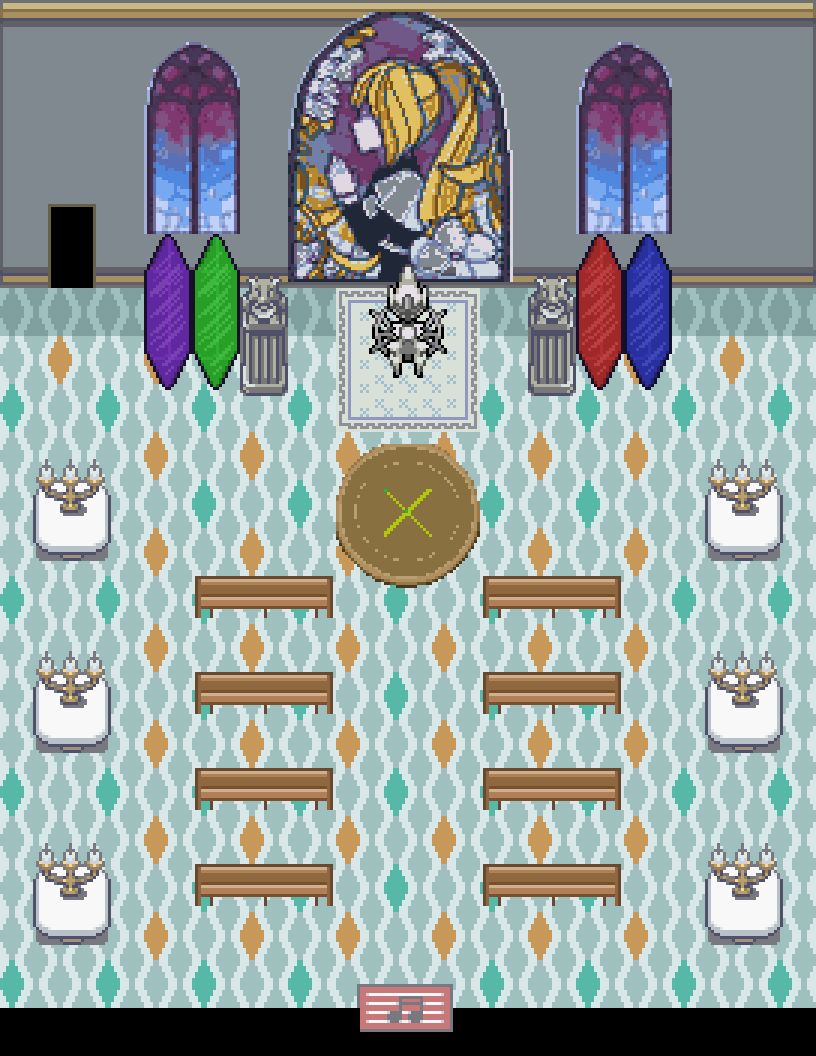
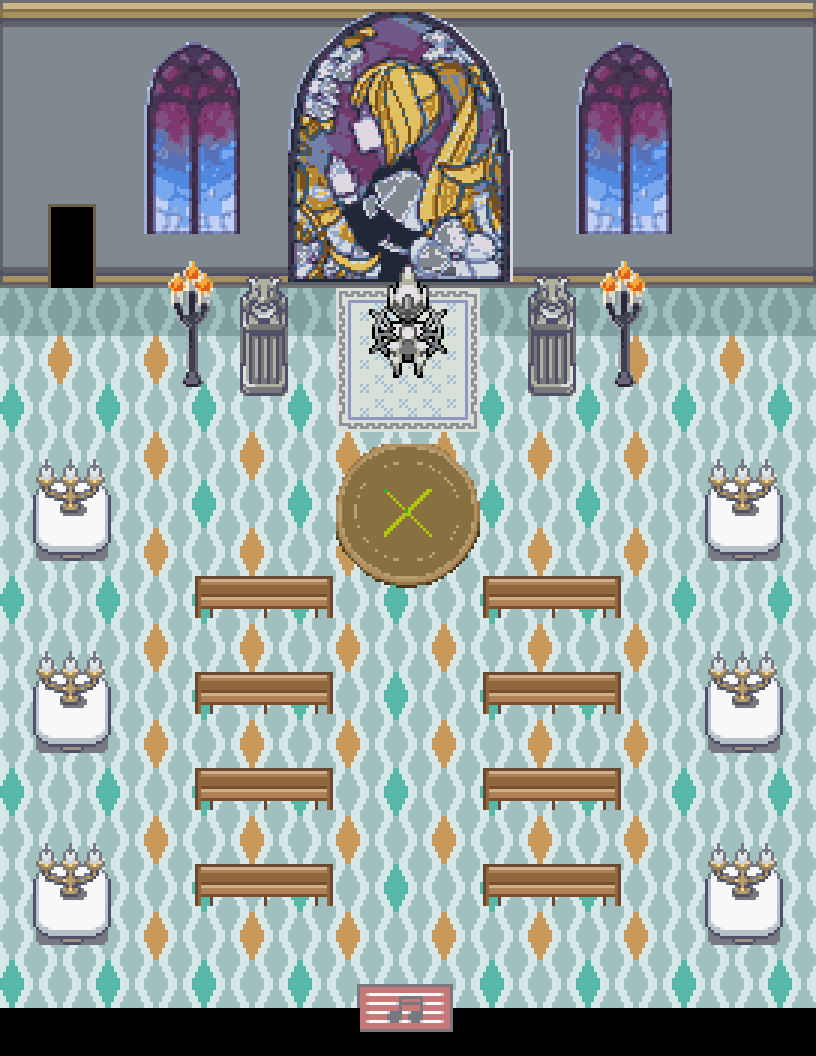
Templar hall: tall iron candle stands replace the crystals
User found the four coloured crystals gaudy. In their place, one tall iron
candle stand with three lit candles either side of the altar (Rejuvenation's
Church sheet, resampled from the JPEG: muddied colours mapped to a clean
iron/wax/flame ramp, the JPEG's cream halo along the stem dropped). One per
side chosen over two (two crowded the pillars). Mock, bible updated.

Claude-Session: https://claude.ai/code/session_01FHXnfqnedTHLf5QFbB3MCU

Changed region(s): [[0.1532, 0.2188, 0.3064, 0.375], [0.7047, 0.2188, 0.8272, 0.375]]

diff --git a/tools/art/templar/build_hall.py b/tools/art/templar/build_hall.py
@@ -7,7 +7,8 @@ The hall the holding cell's south door opens into: a church-like foyer with pews
     in its palette slots 8 (wall) and 12 (carpet), plus our pieces:
       - Pokemon Rejuvenation (credit: the Rejuvenation team): ArceusRuins sheet, halved exactly (the art is
         pixel-doubled): the white Arceus statue, two matching tall statue-pillars (user), the altar rug, the
-        gold medallion, the four crystals (user), the cell doorway; Church sheet: the great stained-glass
+        gold medallion, the cell doorway; Church sheet: two tall iron candle stands (they replaced the four
+        crystals, which the user found gaudy), the great stained-glass
         window (the figure's hair re-dyed gold blonde with silver: user) and the two gothic lancets,
         resampled from the JPEG the user supplied (the original PNG was unavailable: user said go ahead).
       - pews drawn in the saloon's warm wood (user picked pews over chairs).
@@ -87,7 +88,7 @@ for x0, y0 in TABLES:
         for dx in range(3): floor[y0 + dy][x0 + dx] = ('hq', TABLE[dy][dx])
 
 # ---------------- object pieces (pixels) and their palette slots ----------------
-GREAT, LANCET, STATUE, CRYS_A, CRYS_B, WALLSLOT, CARPET = 6, 7, 9, 10, 11, 8, 12
+GREAT, LANCET, STATUE, CRYS_A, CRYS_B, WALLSLOT, CARPET = 6, 7, 9, 10, 11, 8, 12   # CRYS_A: the candle stands
 placed = []                                                     # (rgb, mask, px, py, slot), in drawing order
 def place(rgb, m, px, py, slot): placed.append((rgb.astype(np.uint8), m, px, py, slot))
 g, gm = CM.ch_window((4, 7352, 146, 7512), 80); g = CM.blonde(g, gm); place(g, gm, 8 * 16 + 8 - 40, 4, GREAT)
@@ -98,9 +99,10 @@ a, m = CM.ar(CM.BOX[5]); place(a, m, 8 * 16 + 8 - m.shape[1] // 2, WALL_ROWS * 1
 x0, y0, x1, y1 = CM.BOX[36]; a, m = CM.ar((x0, y0, x0 + 16, y1))
 PILLAR_Y = (WALL_ROWS + 2) * 16 - m.shape[0] + 4
 place(a, m, 5 * 16, PILLAR_Y, STATUE); place(a[:, ::-1], m[:, ::-1], 11 * 16, PILLAR_Y, STATUE)
-x0, y0, x1, y1 = CM.BOX[63]
-for k, px, slot in ((0, 3 * 16, CRYS_A), (1, 4 * 16, CRYS_A), (2, 12 * 16, CRYS_B), (3, 13 * 16, CRYS_B)):
-    a, m = CM.ar((x0 + 16 * k, y0, x0 + 16 * k + 16, y1)); place(a, m, px, (WALL_ROWS + 2) * 16 - m.shape[0] + 2, slot)
+# tall iron candle stands where the crystals stood (user 2026-11-19: the crystals were too gaudy)
+STAND_XS = {1: (3 * 16 + 8, 12 * 16 + 8), 2: (3 * 16, 4 * 16, 12 * 16, 13 * 16)}[int(os.environ.get('STANDS', '1'))]
+a, m = CM.candle_stand()
+for px in STAND_XS: place(a, m, px, (WALL_ROWS + 2) * 16 - m.shape[0] + 2, CRYS_A)
 x0, y0, x1, y1 = CM.BOX[1]; a, m = CM.ar((x0, y1 - 48, x1, y1)); place(a, m, 8 * 16 + 8 - 24, (WALL_ROWS + 3) * 16 + 4, CARPET)
 PEWS = [(sx, sy) for sy in range(WALL_ROWS + 6, H - 3, 2) for sx in (4, 10)]
 for sx, sy in PEWS:

diff --git a/tools/art/templar/compose_mock.py b/tools/art/templar/compose_mock.py
@@ -78,6 +78,21 @@ def blonde(rgb, m):
     for c, new in zip(hair, ramp): out[(rgb == c).all(-1) & m] = new
     return out
 
+# ---- tall iron candle stands (user 2026-11-19: replace the "gaudy" crystals) ----
+# Rejuvenation's Church-sheet stand (three lit candles on dark iron), resampled from the JPEG; its muddied
+# colours mapped to a clean ramp (iron, wax, flame), and the JPEG's cream halo along the stem (below the
+# candles) dropped.
+STAND_MAP = {(46, 43, 53): (40, 40, 56), (63, 62, 74): (64, 64, 80), (91, 89, 102): (104, 104, 120),
+             (148, 103, 75): (216, 96, 32), (142, 147, 149): (168, 168, 176), (191, 157, 126): (248, 168, 56),
+             (197, 178, 153): (224, 216, 200), (229, 222, 208): (248, 240, 200)}
+STAND_HALO_FROM = 17                           # rows from here down are stem: light pixels there are halo
+def candle_stand():
+    st, sm = ch_window((112, 4758, 138, 4836), 15); out = st.copy(); m = sm.copy()
+    for k, v in STAND_MAP.items(): out[(st == k).all(-1) & sm] = v
+    halo = np.isin(st.reshape(-1, 3).view([('', st.dtype)] * 3), np.array([(197, 178, 153), (229, 222, 208)], st.dtype).view([('', st.dtype)] * 3)).reshape(st.shape[:2])
+    m[STAND_HALO_FROM:] &= ~halo[STAND_HALO_FROM:]
+    return out, m
+
 def pew():
     """Option B: a three-tile pew seen from behind, in the saloon's warm wood (generic furniture, drawn)."""
     W = (DORM.SAL.pal[4][5], DORM.SAL.pal[4][3], DORM.SAL.pal[4][2], DORM.SAL.pal[4][10], DORM.SAL.pal[4][7])
@@ -123,6 +138,9 @@ def compose(seating):
     # the same tall fluted statue-pillar either side (user: they must match), the right one mirrored
     x0, y0, x1, y1 = BOX[36]; a, m = ar((x0, y0, x0 + 16, y1))
     put(a, m, 5 * 16, (WALL + 2) * 16 - m.shape[0] + 4); put(a[:, ::-1], m[:, ::-1], 11 * 16, (WALL + 2) * 16 - m.shape[0] + 4)
+    # tall iron candle stands either side of the altar (they replaced the crystals: user)
+    a, m = candle_stand()
+    for px in (3 * 16 + 8, 12 * 16 + 8): put(a, m, px, (WALL + 2) * 16 - m.shape[0] + 2)
     # the gold medallion set in the floor before the altar
     x0, y0, x1, y1 = BOX[1]; a, m = ar((x0, y1 - 48, x1, y1)); put(a, m, 8 * 16 + 8 - 24, (WALL + 3) * 16 + 4)
     # candelabra tables down both side walls

diff --git a/bible/20_chapter1_build.md b/bible/20_chapter1_build.md
@@ -161,7 +161,7 @@ Chapter 1 is the template: once its foundations (mechanics, maps, buildings, NPC
 - ~~Pelluca interiors on the story path are placeholders~~ **Done:** the Seaside Tavern is MonoMyth's Elderflower tavern (2026-11-16), and the dormitory is built (2026-11-19, below).
 - Town basics still missing: water animation, door animations.
 - **Academy dormitory (user design 2026-11-19), installed.** The building in Pelluca's far north-west (door 11,8) opens into a two-floor dormitory. **Ground floor:** a common room with a food counter (a cook behind it), dining tables, a small stage with a lectern for speeches and public debate (chairs facing it), stairs up, and room doors on the back wall. **Osrid's room is the door nearest the stairs** (user), with a brass plate beside it reading NOMAD ALBAN; the other two ground-floor doors are locked. **Upstairs:** a hallway with four locked student rooms, spread out (user). Osrid's room: bed, bookshelf, writing table. Art: MonoMyth's Speedwell saloon recoloured (oak floor, warm wood), the South Edelweiss apartment wall, doors and doormats warmed to parchment (user picked those doors), the Wood Avens pedestal as the lectern; the doors open with MonoMyth's own animation for them. The user reviewed the mockup through several rounds: darker walls, no panelled wainscot, a calmer wall to suit the doors, one even oak floor. Built by `tools/monomyth/dormitory/` (compose_mock.py = the approved mockup, build_dormitory.py = tilesets + layouts). Maps: PellucaDormitory1F / 2F / OsridRoom. NPC lines are placeholders for the dialogue pass. Verified in the emulator. *Still open:* whether Cadmus's "get some sleep" sends Osrid here in a scene.
-- **Templar Monastery main hall (user design 2026-11-19), installed.** The holding cell's south door now opens into the monastery's main hall, a church-like foyer between chapel and cathedral in size (17x22). Pelluca's monastery door leads into it and its front door back out. **North wall:** a great stained-glass window, its praying figure re-dyed gold blonde with tinges of silver (user), between two gothic lancets. **Altar:** a white Arceus statue on a white-and-blue altar rug, a matching pair of tall fluted statue-pillars either side (user: same size, both tall), and the four coloured crystals (user); a gold medallion is set in the floor before it. **Nave:** MonoMyth's teal-and-gold diamond carpet and its candelabra tables down both side walls (from the candelabra room at the end of the Old Town's ruined "Old Headquarters"; the clean wall, no cracks or worn diamonds), with four rows of pews either side of the aisle (user picked pews over chairs). The cell door is on the north wall, west of the altar. **Art credits:** MonoMyth (wall, carpet, candelabra tables, mat) and **the Pokémon Rejuvenation team** (statue, pillars, rug, medallion, crystals, doorway, stained glass; sheets in `assets/rejuvenation/`). The stained glass came as a resized JPEG and is resampled; the original PNG would let it be rebuilt pixel-exact. Built by `tools/art/templar/` (compose_mock.py = the approved mock, build_hall.py = tilesets + layout). NPCs and dialogue wait for the dialogue pass. Verified in the emulator: city -> hall -> cell -> hall -> city; the cell scene still plays.
+- **Templar Monastery main hall (user design 2026-11-19), installed.** The holding cell's south door now opens into the monastery's main hall, a church-like foyer between chapel and cathedral in size (17x22). Pelluca's monastery door leads into it and its front door back out. **North wall:** a great stained-glass window, its praying figure re-dyed gold blonde with tinges of silver (user), between two gothic lancets. **Altar:** a white Arceus statue on a white-and-blue altar rug, a matching pair of tall fluted statue-pillars either side (user: same size, both tall), and a tall iron candle stand with three lit candles at each end (Rejuvenation's Church sheet; they replaced four coloured crystals the user found gaudy); a gold medallion is set in the floor before it. **Nave:** MonoMyth's teal-and-gold diamond carpet and its candelabra tables down both side walls (from the candelabra room at the end of the Old Town's ruined "Old Headquarters"; the clean wall, no cracks or worn diamonds), with four rows of pews either side of the aisle (user picked pews over chairs). The cell door is on the north wall, west of the altar. **Art credits:** MonoMyth (wall, carpet, candelabra tables, mat) and **the Pokémon Rejuvenation team** (statue, pillars, rug, medallion, candle stands, doorway, stained glass; sheets in `assets/rejuvenation/`). The stained glass came as a resized JPEG and is resampled; the original PNG would let it be rebuilt pixel-exact. Built by `tools/art/templar/` (compose_mock.py = the approved mock, build_hall.py = tilesets + layout). NPCs and dialogue wait for the dialogue pass. Verified in the emulator: city -> hall -> cell -> hall -> city; the cell scene still plays.
 - **Pelluca outdoor doors (user 2026-11-19), installed.** The Umbra Lab door and the timber house door (the dormitory, and two warp-less houses with the same art) swing open: a generated three-frame swing, the leaf turning inward on its right hinge and darkening as it goes, the dark interior behind it (`tools/art/pelluca_doors/doors.py`; the user approved the mock). The monastery and Tavern are open archways and have no door to swing. Verified in the emulator (leaving the lab, entering the dormitory).
 - **Pokémon Odyssey pieces (user 2026-11-19), installed.** Surveyed Odyssey v4.1 (a FireRed hack; `tools/odyssey/`): mostly modern interiors; two medieval-leaning sets were usable, a rustic barn and a brick fireplace hall. Pieces are laid as *objects* over our own wall and floor (only their own pixels), recoloured to our palette where they would clash (the pasted-block hearth "isn't integrated well at all": user). **Dormitory:** brick hearth between the east doors, plates of food on the dining tables. **Seaside Tavern:** one floor row added under the back wall so the space behind the bar is less tight (two rows moved the bar too far: user), the old row's baked-in wall shadow removed (user), the hearth on the back wall behind the bar, plates on the round tables, barrels in the front corners; NPCs and exit moved down with the room. **Templar holding cell:** it doubles as a storeroom since prisoners are rare (user: very little crime in Pelluca): hay bales, straw, two stored barrels on the prisoner's side; a plank table and stools for the guards. **Osrid's room:** no hearth (it looked misaligned there: user). **Lit hearths (user):** the Tavern and dormitory fires burn: MonoMyth's 4-frame fire (from its small fire rooms) animated inside the firebox, logs on the grate, clipped to the opening (`InitTilesetAnim_ElderflowerTavern` / `_PellucaDormitory` in src/tileset_anims.c; fire tiles at secondary tile 229). **Dormitory common room, revised (user):** the hearth is the heart of the room, in redder, fancier brick with a paler marble-like mantel; the two doors beside it are gone (Osrid's room by the stairs is now the only ground-floor room); Wood Avens' round red rug is centred in front of it, with a chair either side, plants flanking the hearth, and a log table with two stools. **Upstairs:** six locked student rooms, five tiles apart (hallway widened to 33). Two potted cacti stand off the wall beside the top of the stairs (user): the saloon's green one and a violet one with a small pink bloom below it (user picked the bloom; a recolour of the same cactus, in spare indices of the wall and door palettes). Builders: `tools/odyssey/build_tavern.py`, `build_cell.py` (from saved base copies), dormitory via `build_dormitory.py`. Verified in the emulator, including the cell scene. Credit Pokémon Odyssey alongside MonoMyth.
 
